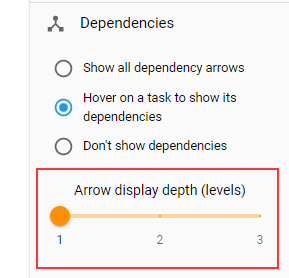
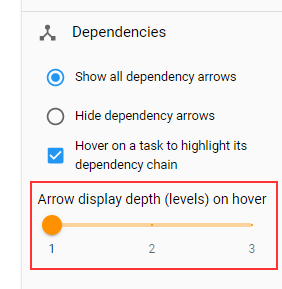
update dependency docs/images + add to menu

diff --git a/docs/boards/howto/dependencies.md b/docs/boards/howto/dependencies.md
@@ -95,19 +95,19 @@ There are several options available for showing dependency arrows in the timelin
 This is the default setting and will show all dependencies as blue arrows at all times. The arrows will recalculate themselves if tasks are moved or resized, or if dependencies are added or removed.
 ![](/assets/boards/dependencies/timeline-dependencies-show-all.png)
 
+#### Hide dependency arrows
+Use this option to hide all dependency arrows in Timeline. Hovering on a task to show its dependency chain can still be achieved when arrows are hidden, depending on the setting below.
 
-#### Hover on a task to show its dependencies
+#### Hover on a task to highlight its dependency chain
 Hover anywhere for a few moments on a task/card that has dependencies to highlight dependent tasks and also visualise the chain of dependency links as arrows to and from the dependant cards. Note that numbers also appear in the top right of the highlighted cards to indicate the order that they need to be completed. 
 
-![](/assets/boards/dependencies/timeline-show-dependencies-checkbox.png){: style="float: left"} When `Hover on a task to show its dependencies` is enabled, the arrow display depth slider will be shown, and can be used to increase the number of "levels" (backwards and forwards) to show a chain of dependency link arrows in the Timeline view, originating from the card that is being hovered on. 
+![](/assets/boards/dependencies/timeline-show-dependencies-checkbox.png){: style="float: left"} When `Hover on a task to highlight its dependency chain` is enabled, the arrow display depth slider will be shown, and can be used to increase the number of "levels" (backwards and forwards from the hovered card) to show a chain of dependency link arrows in the Timeline view, originating from the card that is being hovered on. 
 
 <br/><br/><br/>
 See the animation below as an example of 2 levels of dependency depth.
 
 ![](/assets/boards/dependencies/show-dependencies-timeline-hover.gif)
 
-#### Don't show dependencies
-Use this option to hide all dependency arrows in Timeline.
 
 ## Completing a task that has dependencies
 Attempting to complete a task that has incomplete dependencies will trigger the following dialog:
